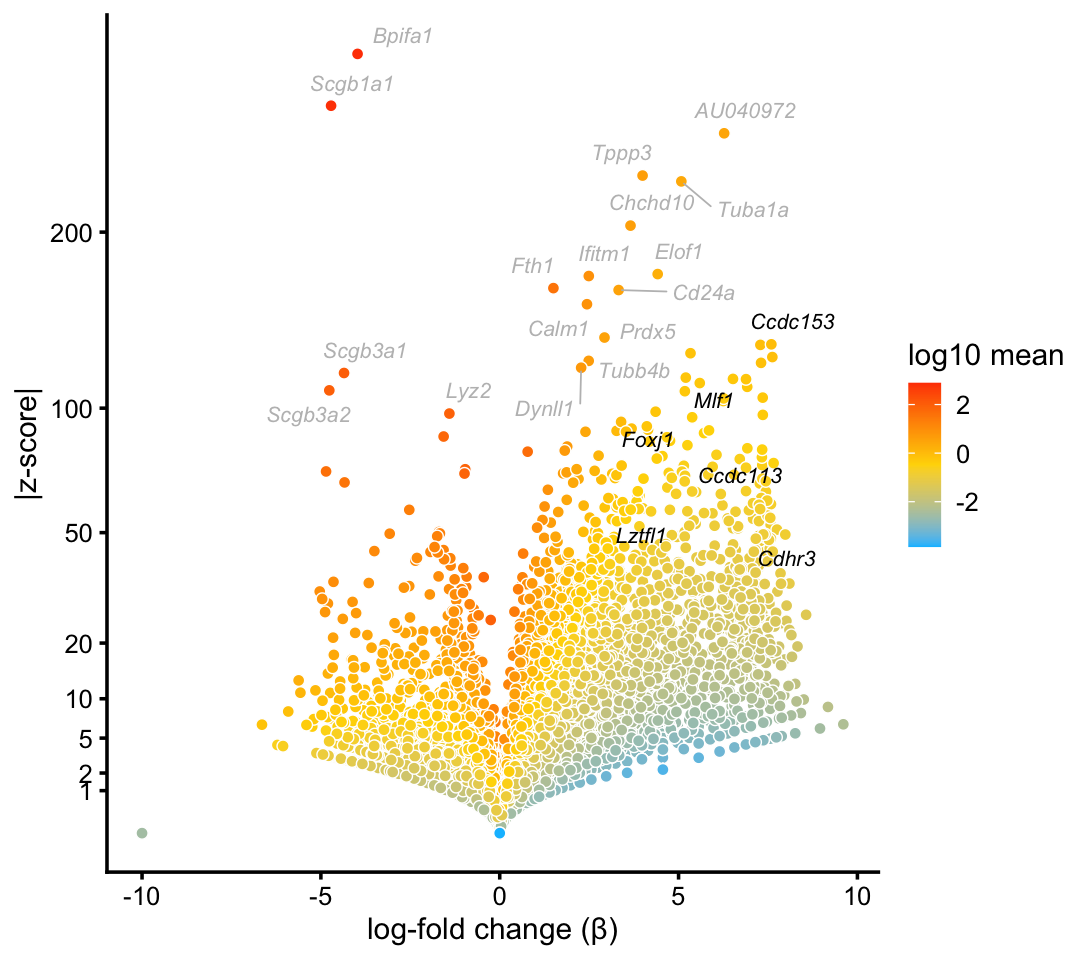
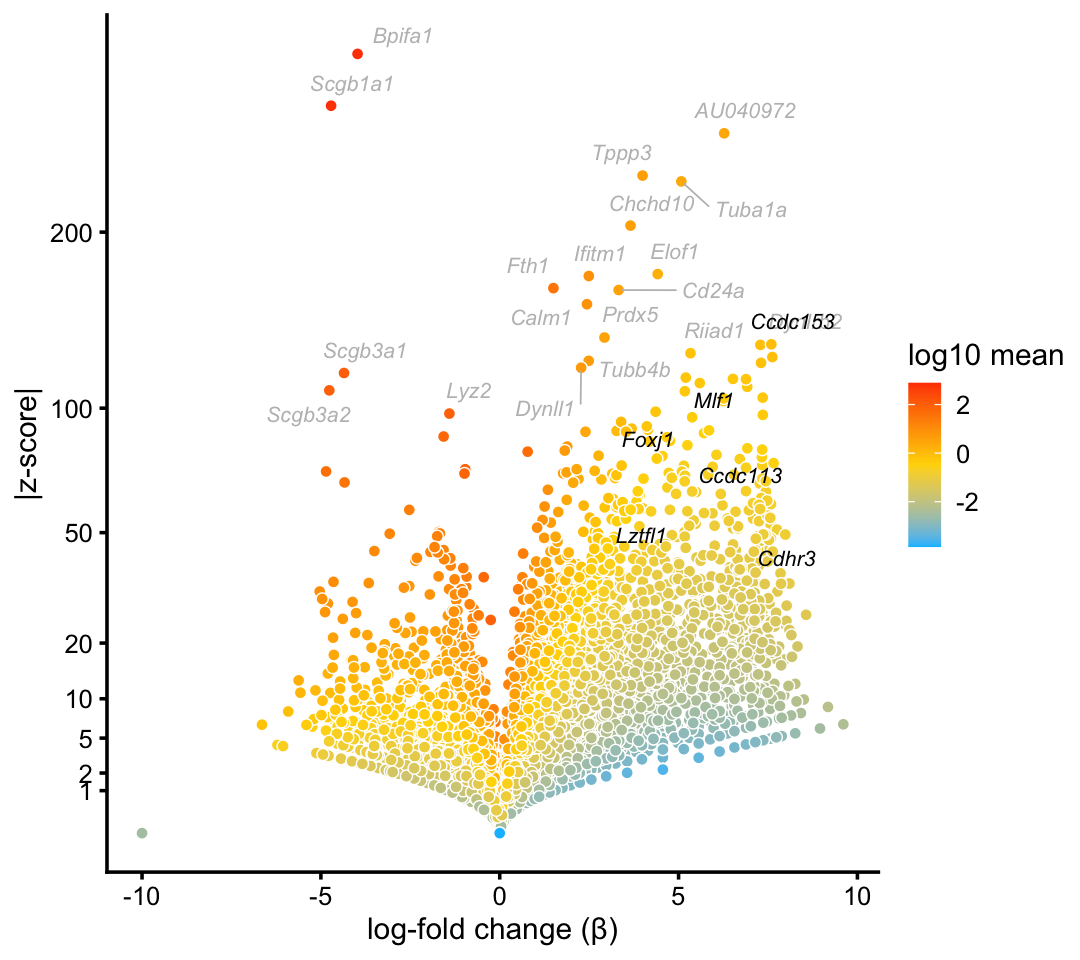
Added ionocytes volcano plot to plots_tracheal_epithelium.

diff --git a/docs/plots_tracheal_epithelium.html b/docs/plots_tracheal_epithelium.html
@@ -429,16 +429,16 @@ diff-count-analysis-topics-pulseseq
 <div class="panel panel-default">
 <div class="panel-heading">
 <p class="panel-title">
-<a data-toggle="collapse" data-parent="#workflowr-checks" href="#strongRepositoryversionstrongahrefhttpsgithubcomstephenslabsinglecelltopicstree8198c07fd1f92ea5ae43cc52b33f2a1b4288f340targetblank8198c07a"> <span class="glyphicon glyphicon-ok text-success" aria-hidden="true"></span> <strong>Repository version:</strong> <a href="https://github.com/stephenslab/single-cell-topics/tree/8198c07fd1f92ea5ae43cc52b33f2a1b4288f340" target="_blank">8198c07</a> </a>
+<a data-toggle="collapse" data-parent="#workflowr-checks" href="#strongRepositoryversionstrongahrefhttpsgithubcomstephenslabsinglecelltopicstreef0bdbda1a52710b579bc49aef78bbf183c170a11targetblankf0bdbdaa"> <span class="glyphicon glyphicon-ok text-success" aria-hidden="true"></span> <strong>Repository version:</strong> <a href="https://github.com/stephenslab/single-cell-topics/tree/f0bdbda1a52710b579bc49aef78bbf183c170a11" target="_blank">f0bdbda</a> </a>
 </p>
 </div>
[2 lines of base64/hex data omitted]
 <div class="panel-body">
 <p>
 Great! You are using Git for version control. Tracking code development and connecting the code version to the results is critical for reproducibility.
 </p>
 <p>
-The results in this page were generated with repository version <a href="https://github.com/stephenslab/single-cell-topics/tree/8198c07fd1f92ea5ae43cc52b33f2a1b4288f340" target="_blank">8198c07</a>. See the <em>Past versions</em> tab to see a history of the changes made to the R Markdown and HTML files.
+The results in this page were generated with repository version <a href="https://github.com/stephenslab/single-cell-topics/tree/f0bdbda1a52710b579bc49aef78bbf183c170a11" target="_blank">f0bdbda</a>. See the <em>Past versions</em> tab to see a history of the changes made to the R Markdown and HTML files.
 </p>
 <p>
 Note that you need to be careful to ensure that all relevant files for the analysis have been committed to Git prior to generating the results (you can use <code>wflow_publish</code> or <code>wflow_git_commit</code>). workflowr only checks the R Markdown file, but you know if there are other scripts or data files that it depends on. Below is the status of the Git repository when the results were generated:
@@ -498,6 +498,40 @@ Message
 </tr>
 </thead>
 <tbody>
+<tr>
+<td>
+Rmd
+</td>
+<td>
+<a href="https://github.com/stephenslab/single-cell-topics/blob/f0bdbda1a52710b579bc49aef78bbf183c170a11/analysis/plots_tracheal_epithelium.Rmd" target="_blank">f0bdbda</a>
+</td>
+<td>
+Peter Carbonetto
+</td>
+<td>
+2020-09-23
+</td>
+<td>
+workflowr::wflow_publish(“plots_tracheal_epithelium.Rmd”, verbose = TRUE)
+</td>
+</tr>
+<tr>
+<td>
+html
+</td>
+<td>
+<a href="https://rawcdn.githack.com/stephenslab/single-cell-topics/361eded8d39fef83e29ceba7c42a2f3aa0ae4e9e/docs/plots_tracheal_epithelium.html" target="_blank">361eded</a>
+</td>
+<td>
+Peter Carbonetto
+</td>
+<td>
+2020-09-23
+</td>
+<td>
+Added text to accompany ciliated cells volcano plots.
+</td>
+</tr>
 <tr>
 <td>
 Rmd
@@ -1550,7 +1584,7 @@ cat(sprintf(&quot;Computation took %0.2f seconds.\n&quot;,timing[&quot;elapsed&q
 </div>
 <div id="ciliated-cells" class="section level2">
 <h2>Ciliated cells</h2>
-<p>We begin with the cluster that captures ciliated cells in the droplet data. This cluster is one of the most clearly separated clusters in both the droplet and pulse-seq data sets.</p>
+<p>We begin with the cluster that captures ciliated cells in the droplet data. This cluster is one of the most distinctive in both the droplet and pulse-seq data sets.</p>
 <pre class="r"><code>cilitated_genes &lt;- c(&quot;Ccdc113&quot;,&quot;Ccdc153&quot;,&quot;Cdhr3&quot;,&quot;Foxj1&quot;,&quot;Lztfl1&quot;,&quot;Mlf1&quot;)
 p1 &lt;- volcano_plot_with_highlighted_genes(diff_count_clusters_droplet,&quot;Cil&quot;,
                                           cilitated_genes,
@@ -1581,6 +1615,17 @@ Date
 <tbody>
 <tr>
 <td>
+<a href="https://github.com/stephenslab/single-cell-topics/blob/361eded8d39fef83e29ceba7c42a2f3aa0ae4e9e/docs/figure/plots_tracheal_epithelium.Rmd/volcano-plot-droplet-cil-1.png" target="_blank">361eded</a>
+</td>
+<td>
+Peter Carbonetto
+</td>
+<td>
+2020-09-23
+</td>
+</tr>
+<tr>
+<td>
 <a href="https://github.com/stephenslab/single-cell-topics/blob/23f87bb202ad31fcb5ebc7aaaba8bf0344e09343/docs/figure/plots_tracheal_epithelium.Rmd/volcano-plot-droplet-cil-1.png" target="_blank">23f87bb</a>
 </td>
 <td>
@@ -1605,7 +1650,7 @@ Peter Carbonetto
 </table>
 </div>
 </div>
-<p>In this volcano plot, marker genes and transcription factors identified in Montoro <em>et al</em> (2018) are highlighted in black.</p>
+<p>In this volcano plot, marker genes and transcription factors identified in Montoro <em>et al</em> (2018) are highlighted in black, and other top differentially expressed genes are shown with gray labels.</p>
 <p>We obtain similar top differentially expressed genes in the pulse-seq data:</p>
 <pre class="r"><code>p2 &lt;- volcano_plot_with_highlighted_genes(diff_count_clusters_pulseseq,&quot;Cil&quot;,
                                           cilitated_genes,
@@ -1636,6 +1681,17 @@ Date
 <tbody>
 <tr>
 <td>
+<a href="https://github.com/stephenslab/single-cell-topics/blob/361eded8d39fef83e29ceba7c42a2f3aa0ae4e9e/docs/figure/plots_tracheal_epithelium.Rmd/volcano-plot-pulseseq-cil-1.png" target="_blank">361eded</a>
+</td>
+<td>
+Peter Carbonetto
+</td>
+<td>
+2020-09-23
+</td>
+</tr>
+<tr>
+<td>
 <a href="https://github.com/stephenslab/single-cell-topics/blob/23f87bb202ad31fcb5ebc7aaaba8bf0344e09343/docs/figure/plots_tracheal_epithelium.Rmd/volcano-plot-pulseseq-cil-1.png" target="_blank">23f87bb</a>
 </td>
 <td>
@@ -1663,17 +1719,63 @@ Peter Carbonetto
 </div>
 <div id="ionocytes" class="section level2">
 <h2>Ionocytes</h2>
-<p>Volcano plot for “I” cluster in pulse-seq data:</p>
-<pre class="r"><code>genes_ionocytes &lt;- c(&quot;Ascl3&quot;,&quot;Asgr1&quot;,&quot;Atp6v1c2&quot;,&quot;Cftr&quot;,&quot;Foxi1&quot;,
-                     &quot;Moxd1&quot;,&quot;P2ry14&quot;)
-genes &lt;- colnames(counts_pulseseq)
-genes[!is.element(genes,genes_ionocytes) &amp;
-      diff_count_clusters_pulseseq$Z[,&quot;I&quot;] &lt; 100] &lt;- &quot;&quot;
-p3 &lt;- volcano_plot(diff_count_clusters_pulseseq,k = &quot;I&quot;,labels = genes,
-                   label_above_quantile = 0,ggplot_call = ggplot_call) +
-      labs(title = &quot;&quot;)
+<p>In the pulse-seq data, we identify a distinctive cluster for the newly discovered ionocyte cell type. Gene expression in these cells is not fully captured by any single topic.</p>
+<pre class="r"><code>ionocyte_genes &lt;- c(&quot;Ascl3&quot;,&quot;Asgr1&quot;,&quot;Atp6v0d2&quot;,&quot;Atp6v1c2&quot;,&quot;Cftr&quot;,&quot;Foxi1&quot;,
+                    &quot;Moxd1&quot;,&quot;P2ry14&quot;,&quot;Stap1&quot;)
+p3 &lt;- volcano_plot_with_highlighted_genes(diff_count_clusters_pulseseq,&quot;I&quot;,
+                                          ionocyte_genes,
+                                          label_above_quantile = 0.998)
 print(p3)</code></pre>
-<p>We detect a very small cluster of ionocytes in the droplet data, at least using <em>Foxi1</em> as a marker for ionocytes:</p>
+<p><img src="figure/plots_tracheal_epithelium.Rmd/volcano-plot-pulseseq-I-1.png" width="528" style="display: block; margin: auto;" /></p>
+<p>
+<button type="button" class="btn btn-default btn-xs btn-workflowr btn-workflowr-fig" data-toggle="collapse" data-target="#fig-volcano-plot-pulseseq-I-1">
+Past versions of volcano-plot-pulseseq-I-1.png
+</button>
+</p>
+<div id="fig-volcano-plot-pulseseq-I-1" class="collapse">
+<div class="table-responsive">
+<table class="table table-condensed table-hover">
+<thead>
+<tr>
+<th>
+Version
+</th>
+<th>
+Author
+</th>
+<th>
+Date
+</th>
+</tr>
+</thead>
+<tbody>
+<tr>
+<td>
+<a href="https://github.com/stephenslab/single-cell-topics/blob/23f87bb202ad31fcb5ebc7aaaba8bf0344e09343/docs/figure/plots_tracheal_epithelium.Rmd/volcano-plot-pulseseq-I-1.png" target="_blank">23f87bb</a>
+</td>
+<td>
+Peter Carbonetto
+</td>
+<td>
+2020-09-23
+</td>
+</tr>
+<tr>
+<td>
+<a href="https://github.com/stephenslab/single-cell-topics/blob/0ed5061eff987ada9a6387e5a2dd43b314014be5/docs/figure/plots_tracheal_epithelium.Rmd/volcano-plot-pulseseq-I-1.png" target="_blank">0ed5061</a>
+</td>
+<td>
+Peter Carbonetto
+</td>
+<td>
+2020-09-22
+</td>
+</tr>
+</tbody>
+</table>
+</div>
+</div>
+<p>We do not identify a cluster for ionocytes in the droplet data, probably because only a handful of cells in this data set appear to be ionocytes, at least judging by expression of the <em>Foxi1</em> ionocyte marker gene:</p>
 <pre class="r"><code>pca  &lt;- prcomp(poisson2multinom(fit_droplet)$L)$x
 pdat &lt;- data.frame(PC1  = pca[,1],
                    PC2  = pca[,2],
@@ -1685,6 +1787,55 @@ p4 &lt;- ggplot(pdat,aes(x = PC1,y = PC2,fill = Foxi1)) +
   theme_cowplot(font_size = 10) +
   labs(fill = &quot;expression level&quot;)
 print(p4)</code></pre>
+<p><img src="figure/plots_tracheal_epithelium.Rmd/pca-plot-droplet-Foxi1-1.png" width="480" style="display: block; margin: auto;" /></p>
+<p>
+<button type="button" class="btn btn-default btn-xs btn-workflowr btn-workflowr-fig" data-toggle="collapse" data-target="#fig-pca-plot-droplet-Foxi1-1">
+Past versions of pca-plot-droplet-Foxi1-1.png
+</button>
+</p>
+<div id="fig-pca-plot-droplet-Foxi1-1" class="collapse">
+<div class="table-responsive">
+<table class="table table-condensed table-hover">
+<thead>
+<tr>
+<th>
+Version
+</th>
+<th>
+Author
+</th>
+<th>
+Date
+</th>
+</tr>
+</thead>
+<tbody>
+<tr>
+<td>
+<a href="https://github.com/stephenslab/single-cell-topics/blob/23f87bb202ad31fcb5ebc7aaaba8bf0344e09343/docs/figure/plots_tracheal_epithelium.Rmd/pca-plot-droplet-Foxi1-1.png" target="_blank">23f87bb</a>
+</td>
+<td>
+Peter Carbonetto
+</td>
+<td>
+2020-09-23
+</td>
+</tr>
+<tr>
+<td>
+<a href="https://github.com/stephenslab/single-cell-topics/blob/0ed5061eff987ada9a6387e5a2dd43b314014be5/docs/figure/plots_tracheal_epithelium.Rmd/pca-plot-droplet-Foxi1-1.png" target="_blank">0ed5061</a>
+</td>
+<td>
+Peter Carbonetto
+</td>
+<td>
+2020-09-22
+</td>
+</tr>
+</tbody>
+</table>
+</div>
+</div>
 </div>
 <div id="goblet-cells" class="section level2">
 <h2>Goblet cells</h2>
